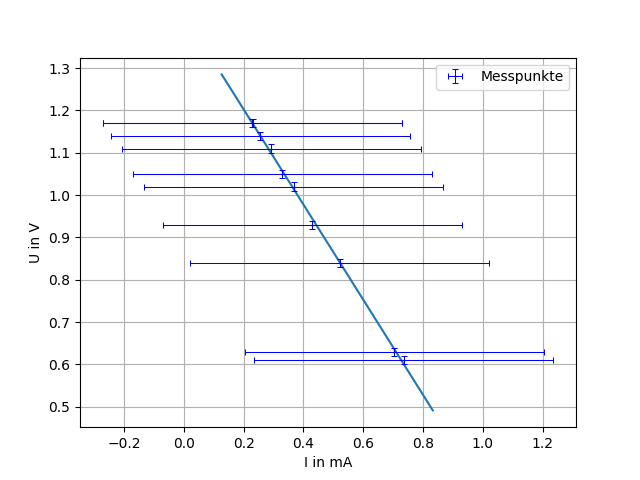
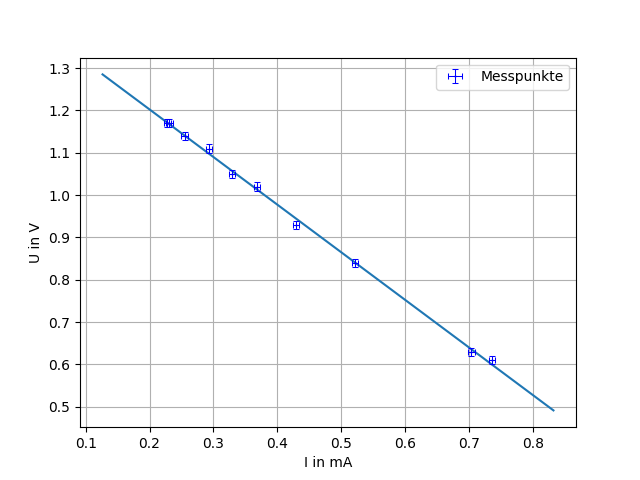
e1 update

diff --git a/e1/plot_log_normal_fit.py b/e1/plot_log_normal_fit.py
@@ -1,0 +1,83 @@
+import matplotlib.pyplot as plot
+import numpy as np
+from lmfit import models
+
+
+# files = ["kennline_teilversuch_6_1", "kennlinie6_1"]
+files = ["kennline_teilversuch_6_2", "kennlinie6_2"]
+
+x_data_unit = "mA"
+y_data_unit = "V"
+
+x_graph_unit = "mA"
+y_graph_unit = "V"
+
+figure = plot.figure(num=files[0])
+
+axis = plot.axes()
+
+axis.set_xlabel(f'I in {x_graph_unit}')
+axis.set_ylabel(f'U in {y_graph_unit}')
+
+
+x = []
+y = []
+
+x_error = []
+y_error = []
+
+with open(files[1], "r", encoding="utf-8") as file:
+    for line in file.readlines():
+        temp = line.split(" ")
+        x.append(float(temp[0].strip(x_data_unit)))
+        y.append(float(temp[2].strip(y_data_unit)))
+        if temp[1] != '':
+            x_error.append(float(temp[1].strip(x_data_unit)))
+        if temp[3] != '':
+            y_error.append(float(temp[3].strip(y_data_unit)))
+
+print("X-Werte:\n", x)
+print("Y-Werte:\n", y)
+
+print("X-Fehler-Werte:\n", x_error)
+print("Y-Fehler-Werte:\n", y_error)
+
+plot.errorbar(x, y, xerr=x_error, yerr=y_error, fmt='o', label='Messpunkte', ms=0.5, zorder=100, capsize=2, capthick=0.75, elinewidth=0.75, color="blue")
+
+model = models.LognormalModel()
+
+params = model.guess(y, x=x)
+# params = model.make_params(amplitude=1, center=0.0, sigma=0.25, height=1.65, fwhm=0.56)
+
+out = model.fit(y, params, x=x, weights=y_error)
+
+print('-------------------------------')
+print('Guess Values')
+print('Parameter      Value       Stderr')
+for name, param in params.items():
+    if param.stderr is not None:
+        print(f'{name:9s} {param.value:11.5f} {param.stderr:11.5f}')
+    else:
+        print(f'{name:9s} {param.value:11.5f} {0.0:11.5f}')
+print('-------------------------------')
+print('Functions Values')
+print('Parameter      Value       Stderr')
+for name, param in out.params.items():
+    if param.stderr is not None:
+        print(f'{name:9s} {param.value:11.5f} {param.stderr:11.5f}')
+    else:
+        print(f'{name:9s} {param.value:11.5f} {0.0:11.5f}')
+print('-------------------------------')
+
+x_s_step = (x[-1] - x[0]) / 100
+x_s = np.arange(x[0] - x_s_step * 20, x[-1] + x_s_step * 20, x_s_step)
+
+plot.plot(x, out.best_fit)
+
+plot.grid(visible=True)
+
+plot.legend()
+
+plot.savefig(files[0])
+
+plot.show()

diff --git a/e1/plot_linear_fit.py b/e1/plot_linear_fit.py
@@ -12,8 +12,6 @@ def non_linear_fit():
 
 
 files = ["kennline_teilversuch_5", "kennlinie5"]
-# files = ["kennline_teilversuch_6_1", "kennlinie6_1"]
-# files = ["kennline_teilversuch_6_2", "kennlinie6_2"]
 
 x_data_unit = "mA"
 y_data_unit = "V"
@@ -57,9 +55,11 @@ model = Model(linear_fit)
 
 params = model.make_params(m=0.2421, c=0.0017)
 
-out = model.fit(y, params, x=x)
+out = model.fit(y, params, x=x, weights=y_error)
 
-linear_model = np.poly1d([out.params['m'].value, out.params['c'].value])
+print(out.params)
+
+function_model = np.poly1d([out.params['m'].value, out.params['c'].value])
 
 print('-------------------------------')
 print('Parameter    Value       Stderr')
@@ -73,7 +73,7 @@ print('-------------------------------')
 x_s_step = (x[-1] - x[0]) / 100
 x_s = np.arange(x[0] - x_s_step * 20, x[-1] + x_s_step * 20, x_s_step)
 
-plot.plot(x_s, linear_model(x_s))
+plot.plot(x_s, function_model(x_s))
 
 
 plot.grid(visible=True)
